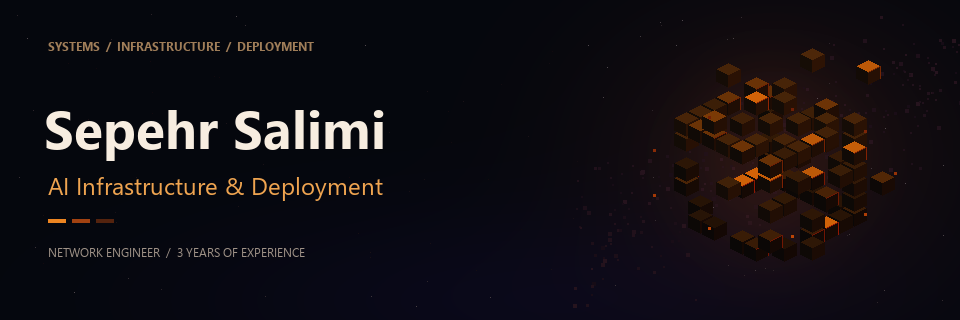
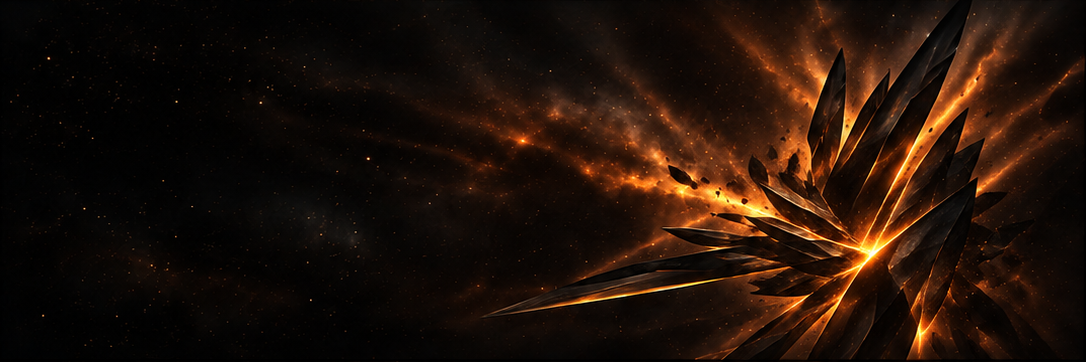
Refine amber cosmic profile artwork and infrastructure skills

diff --git a/README.md b/README.md
@@ -1,5 +1,5 @@
 <p align="center">
-  <img src="assets/galaxy-banner.gif" alt="Sepehr Salimi - AI Infrastructure and Deployment. An animated charcoal galaxy with amber-lit voxel geometry and drifting embers, inspired by the profile avatar." width="960" />
+  <img src="assets/galaxy-banner.gif" alt="Sepehr Salimi - AI Infrastructure and Deployment. An atmospheric black-and-amber cosmos with smooth obsidian forms and a subtle luminous glow, complementing the profile avatar." width="960" />
 </p>
 
 <p align="center">
@@ -16,14 +16,14 @@ Currently deploying **AI infrastructure and internal AI services** at [Dalgostar
 
 | Area | Expertise |
 | :--- | :--- |
-| **Networking** | Cisco |
+| **Networking** | Cisco · MikroTik |
 | **Virtualization** | VMware vSphere |
-| **Linux systems** | Linux |
+| **Linux Server Administration** | Ubuntu · Kali Linux |
 | **Microsoft systems administration** | Windows Server 2025 · MCSA / MCSE skillset |
 
-## Programming
+## Programming & Web
 
-**Python · Java**
+**Python · Java · JavaScript · HTML · CSS**
 
 ---
 
